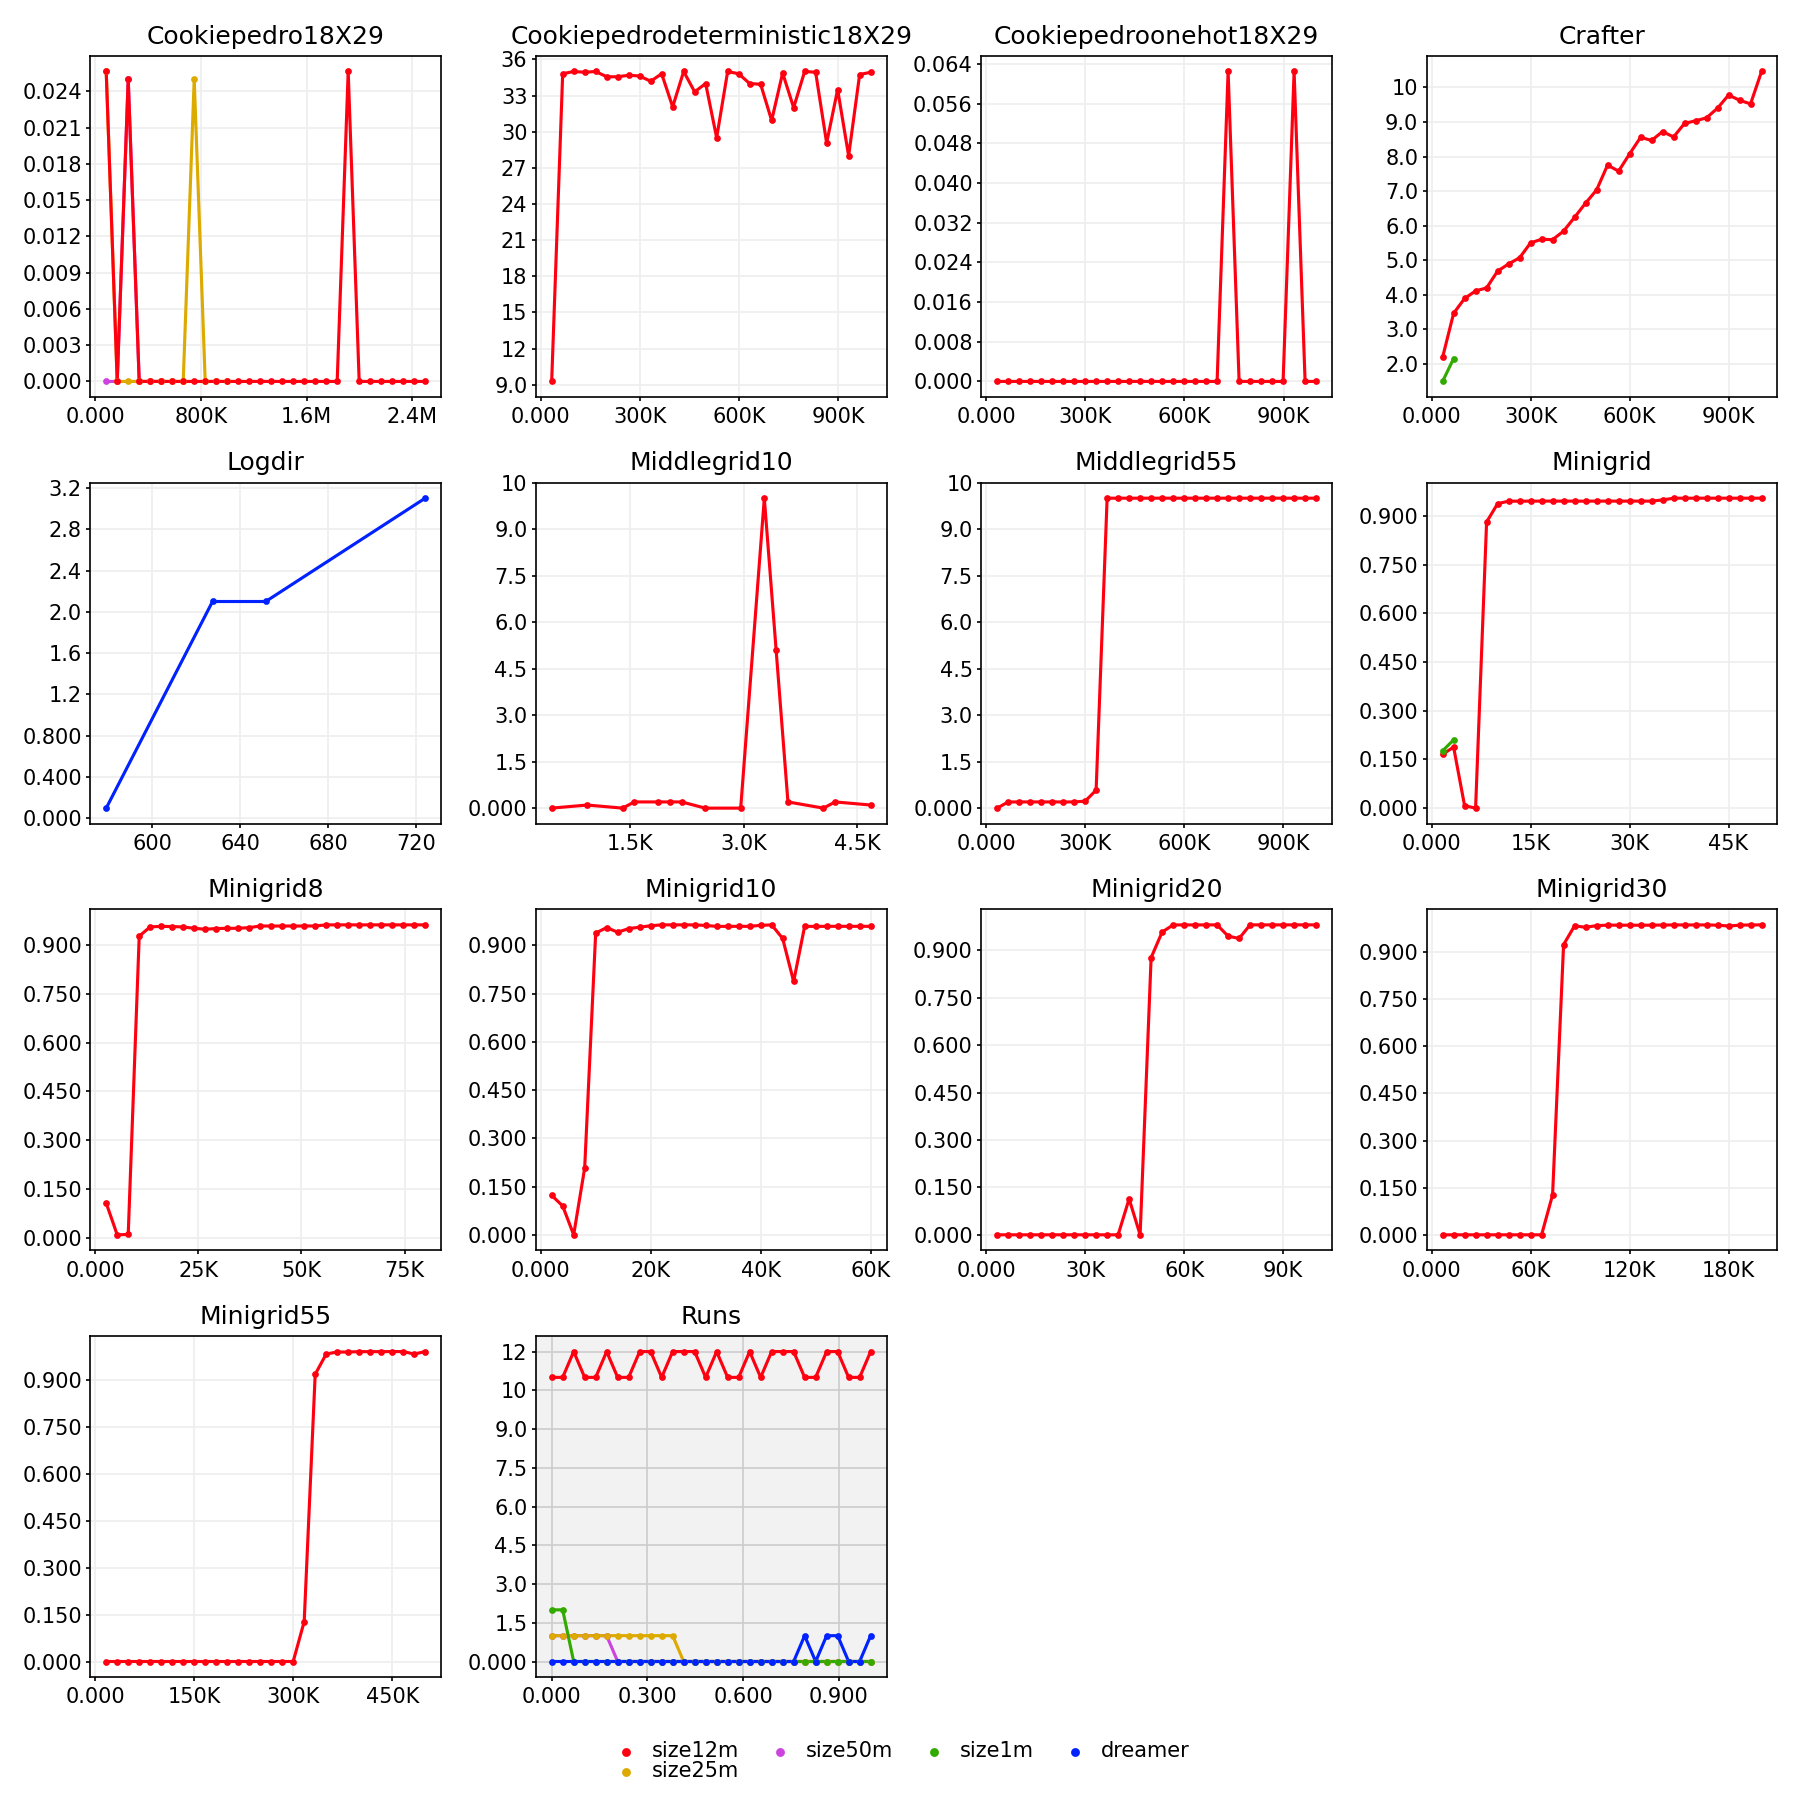
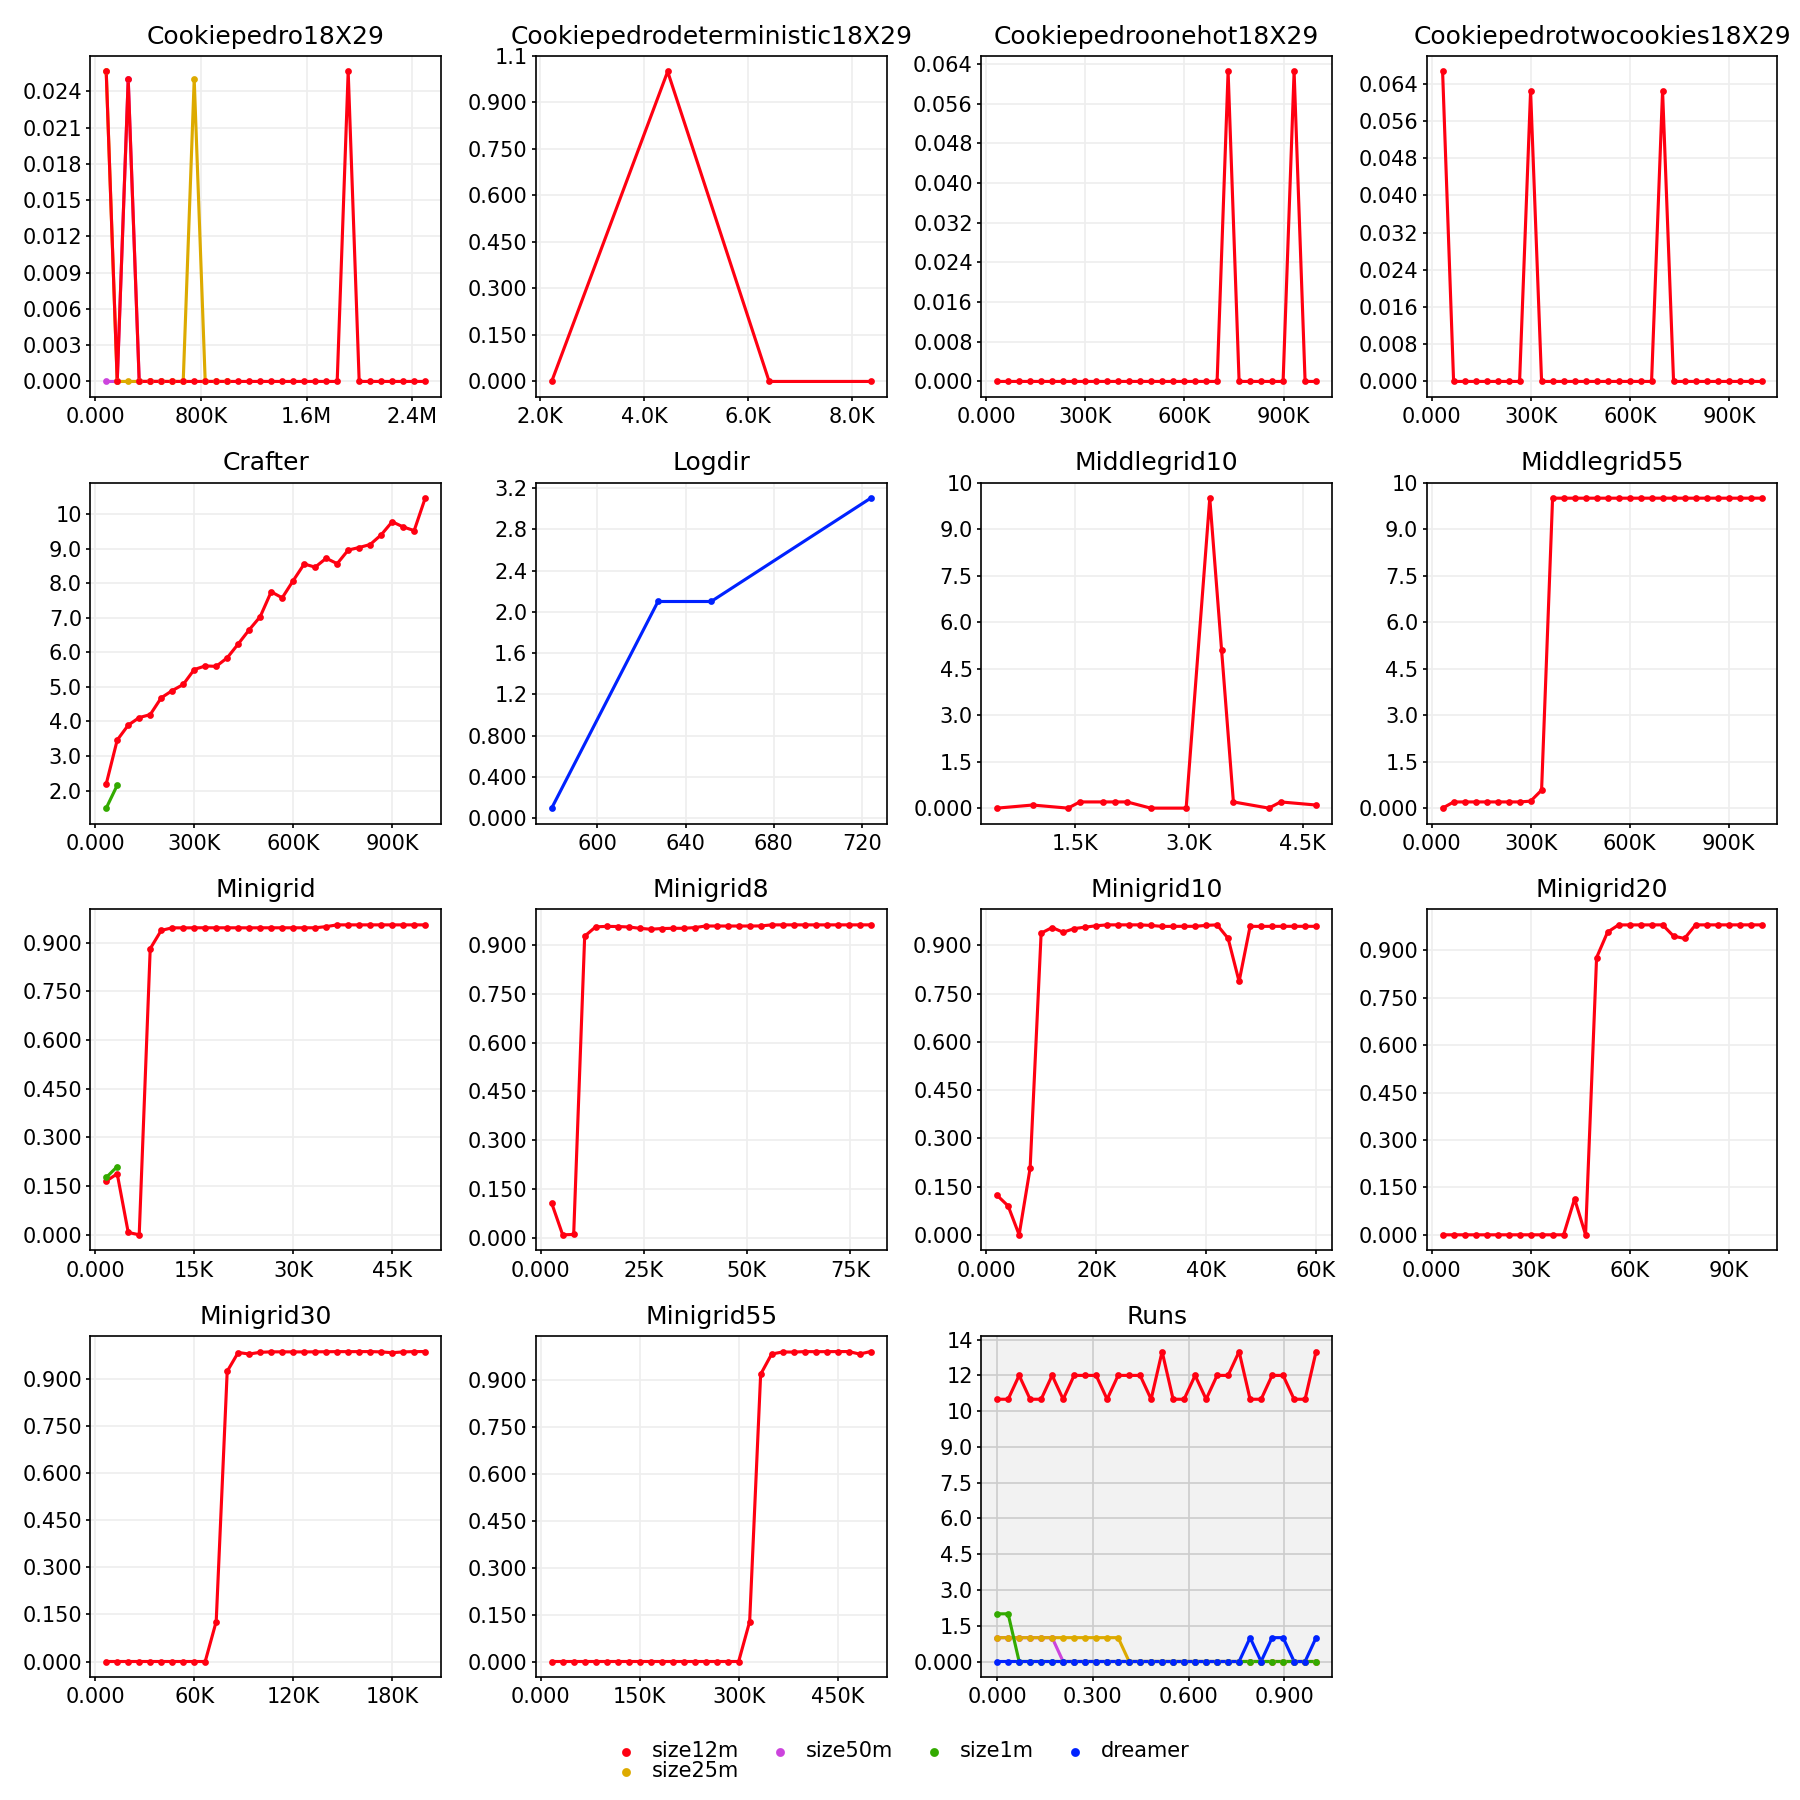
feature: new plots for two cookies

diff --git a/plot_log_heatmap.py b/plot_log_heatmap.py
@@ -11,7 +11,7 @@ from matplotlib.widgets import Slider
 
 # ------------ CONFIG ------------
 # cookiepedro18x29/size12m/03
-LOGDIR = Path.home() / "logdir" / "dreamer" / "cookiepedrotwocookies18x29" / "size12m" / "02"
+LOGDIR = Path.home() / "logdir" / "dreamer" / "cookiepedrotwocookies18x29" / "size12m" / "04"
 # LOGDIR = Path.home() / "Documents" / "Investigacion RL" / "Crafter prueba" / "dreamerv3-exploration" / "ppo_logs_middle_grid" 
 print(LOGDIR)
 OUT_ANIM = Path("plots_nano/log_two_cookies_1M.gif") 
